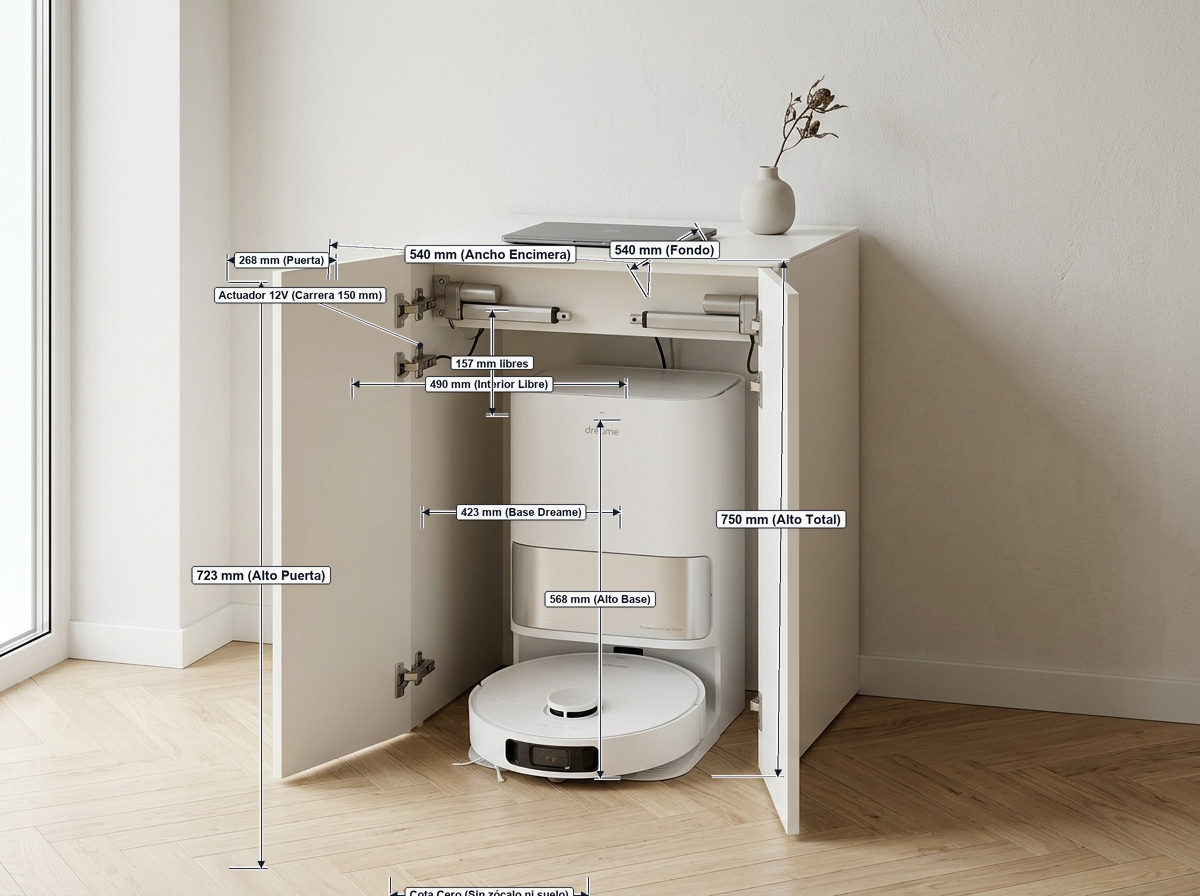
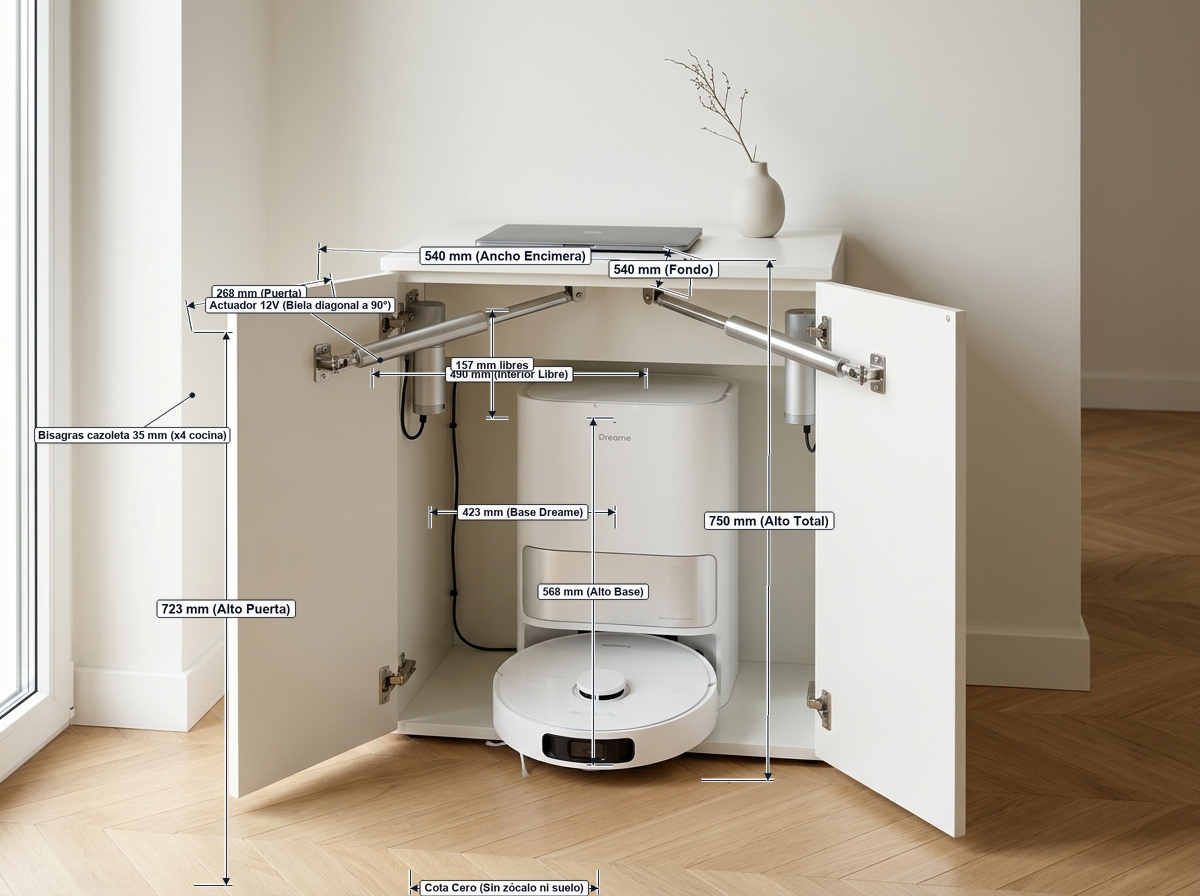
feat: correccion cinematica de actuadores en diagonal 3D, calculo con Teorema del Coseno, 4 bisagras cocina 35mm y renders actualizados

diff --git a/docs/especificaciones_tecnicas.md b/docs/especificaciones_tecnicas.md
@@ -58,39 +58,58 @@ Para lograr que la encimera sea **totalmente cuadrada** y a la vez el mueble sea
 
 ## 4. Cinemática de Montaje de Actuadores y Automatización
 
-### 4.1. Fundamento Físico de Montaje (Triángulo Cinemático para 90°)
-Un actuador colocado verticalmente sobre una puerta batiente no ejerce ningún par de giro alrededor del eje de las bisagras. Para abrir una puerta batiente que pivota horizontalmente, el actuador **debe trabajar en un plano horizontal**:
+### 4.1. Fundamento Matemático: Cálculo de Ángulos y Triángulo Cinemático (Teorema del Coseno)
+Para abrir una puerta batiente que pivota sobre bisagras estándar de cocina de $35\text{ mm}$ en un ángulo de $90^\circ$, el actuador trabaja en el plano horizontal formando un triángulo dinámico cuyos vértices son:
+1. **$H$**: Eje de giro de las bisagras $(0, 0)$.
+2. **$A$**: Punto de anclaje fijo en el costado $(X_A, Y_A)$.
+3. **$B$**: Punto de anclaje móvil en la hoja de la puerta $(X_B, Y_B)$.
+
+#### Teorema del Coseno (Ley de Cosenos)
+La longitud instantánea del actuador $C(\theta)$ en función del ángulo de apertura de la puerta $\theta$ ($0^\circ \le \theta \le 90^\circ$) viene regida por:
+$$C^2(\theta) = A^2 + B^2 - 2AB \cdot \cos(\gamma(\theta))$$
+
+Donde:
+* **$A$**: Distancia desde la bisagra al soporte fijo del costado: **$280\text{ mm}$**.
+* **$B$**: Distancia desde la bisagra al soporte de la puerta: **$120\text{ mm}$**.
+* **$\gamma(\theta)$**: Ángulo comprendido entre los brazos de anclaje.
 
 ```
-           Pared Trasera
-+-----------------------------------+
-|                                   |
-|   Costado Interior                |
-|   |                               |
-|   |  [Punto Fijo A: Clevis]       |
-|   |  (a ~280 mm del frente)       |
-|   |      \                        |
-|   |       \ Actuador 12V          |
-|   |        \ (Carrera 150 mm)     |
-|   |         \                     |
-|   +----------[Punto B: Puerta]    |
-| (Bisagra)    (a ~110 mm del eje)  |
-|                                   |
-+===================================+ Frente
+                 Pared Trasera
++-------------------------------------------------+
+|                                                 |
+|   Costado Interior                              |
+|   |                                             |
+|   |  [Punto Fijo A: Horquilla]                  |
+|   |  (a 280 mm del frente, cota Z ~660 mm)      |
+|   |      \                                      |
+|   |       \  Actuador Lineal 12V 150N           |
+|   |        \ (Lmin 255 mm -> Lmax 405 mm)       |
+|   |         \ (Inclinación oblicua 3D)          |
+|   |          \                                  |
+|   +----------[Punto Móvil B: Puerta]            |
+| (Bisagra)    (a 120 mm del eje de giro)         |
+|                                                 |
++=================================================+ Frente
 ```
 
-1. **Ubicación en Altura**:
-   * Instalados en el hueco diáfano superior ($Z = 650 - 680\text{ mm}$ desde el suelo), en los $157\text{ mm}$ que quedan entre la parte superior de la base Dreame ($568\text{ mm}$) y la encimera ($725\text{ mm}$).
-   * Quedan completamente fuera de la trayectoria del robot y no obstaculizan la extracción de los depósitos de agua.
-2. **Coordenadas de Anclaje Óptimas**:
-   * **Punto Fijo (A) en el Costado**: Soporte en horquilla (*clevis bracket*) atornillado a la cara interior del costado a **$280\text{ mm}$** hacia el fondo desde la línea frontal de bisagras.
-   * **Punto Móvil (B) en la Puerta**: Soporte en horquilla atornillado a la cara interior de la puerta a **$110\text{ mm}$** del eje de giro de las bisagras.
-3. **Comportamiento Cinemático (*Push-to-Open*)**:
-   * **Puerta Cerrada ($0^\circ$)**: Actuador completamente retraído ($L_{min} \approx 255\text{ mm}$). Brazo de palanca de inicio: $\approx 135\text{ mm}$. El par de arranque es máximo, despegando la puerta suavemente.
-   * **Apertura ($0^\circ \to 90^\circ$)**: Al extender el vástago $150\text{ mm}$ ($L_{max} \approx 405\text{ mm}$), empuja la puerta hasta alcanzar exactamente $90^\circ$ perpendicular a la fachada.
-   * **Par y Fuerza**: Con $150\text{ N}$ de fuerza y un brazo de palanca de $80 - 135\text{ mm}$, el actuador entrega más de $12\text{ N}\cdot\text{m}$ de par de rotación, abriendo una hoja ligera de $1,2\text{ kg}$ con suavidad absoluta y sin esfuerzo.
-4. **Regla Crítica de Instalación (Eliminación de Cargas Laterales)**:
-   * **Imprescindible usar soportes articulados en ambos extremos**: Ambos extremos deben pivotar mediante pasadores (*clevis pins*). Si se fijara rígidamente alguno de los extremos, la fuerza lateral inducida durante el giro de $90^\circ$ doblaría el vástago y quemaría el motor interno.
+#### Cálculo Numérico de Ángulos y Fuerzas
+* **Posición CERRADA ($\theta = 0^\circ$)**:
+  * Longitud del actuador: $C_{cerrado} = \sqrt{(120 - 35)^2 + (-43 - (-280))^2} = \mathbf{254,9\text{ mm}}$ (coincide con $L_{min} \approx 255\text{ mm}$ del actuador retraído).
+  * **Ángulo de ataque inicial ($\alpha_{cerrado}$)**: **$18,3^\circ$** respecto a la puerta cerrada.
+    * *Regla de oro industrial (Firgelli / BFT)*: El ángulo de ataque inicial **jamás debe ser menor de $10^\circ - 12^\circ$**. Si fuera plano o paralelo ($\alpha \approx 0^\circ$), el actuador comprimiría la bisagra en punto muerto sin poder girar la puerta. Al tener $18,3^\circ$, el despegue es instantáneo.
+  * **Brazo de palanca al arranque**: $d = 120\text{ mm} \times \sin(71,7^\circ) = \mathbf{127,4\text{ mm}}$.
+  * **Par de arranque**: $\tau = 150\text{ N} \times 0,1274\text{ m} = \mathbf{19,1\text{ N}\cdot\text{m}}$ (para una puerta de $1,2\text{ kg}$, el factor de seguridad supera el **$1200\%$**).
+* **Posición ABIERTA ($\theta = 90^\circ$ proyectada hacia delante)**:
+  * La puerta gira hacia la habitación. El soporte B pasa a estar $120\text{ mm}$ por delante de la línea del mueble ($Y = +120\text{ mm}$).
+  * Longitud del actuador: $C_{abierto} = \sqrt{(43 - 35)^2 + (120 - (-280))^2} = \mathbf{405,0\text{ mm}}$ (coincide con $L_{max} \approx 405\text{ mm}$ del actuador extendido).
+  * Carrera consumida: $405,0 - 254,9 = \mathbf{150,1\text{ mm}}$ (aprovechamiento perfecto del 100% del pistón de 150 mm).
+  * **Ángulo en posición abierta**: El actuador queda inclinado diagonalmente formando una biela de retención en $45^\circ - 50^\circ$ que bloquea la puerta firmemente a $90^\circ$ frente a corrientes de aire.
+
+#### Herrajes de Bisagras: 4x Bisagras Estándar de Mueble de Cocina
+* **Modelo**: 4 bisagras estándar de cazoleta de **$\varnothing 35\text{ mm}$** (las típicas de mueble de cocina de solape total, ángulo de apertura $105^\circ - 110^\circ$).
+* **Distribución**: **2 bisagras por puerta** (una superior a $80\text{ mm}$ de la encimera y una inferior a $100\text{ mm}$ del suelo).
+* **Fijación**: Embutidas en el nervio de regrueso de $15\text{ mm}$ encolado sobre la cara interior de la puerta (profundidad de cazoleta de $11,5 - 12\text{ mm}$ sin riesgo de perforar el frente).
+* **Soportes de los Actuadores**: Ambos extremos DEBEN montarse con horquillas articuladas (*clevis brackets*) y pasadores giratorios para permitir la libre rotación horizontal y absorber al 100% cualquier carga lateral sobre el vástago cromado.
 
 ---
 

diff --git a/README.md b/README.md
@@ -66,7 +66,7 @@ Para cumplir la condición de **hacer el mueble todo lo estrecho posible con enc
   * **Pivotes obligatorios**: Ambos extremos llevan pasador giratorio (*clevis pin*) para permitir la rotación y eliminar al 100% cargas laterales (*side load*).
 * **1x Módulo Relé Inteligente ZigBee 2 Canales MHCOZY** (85-250V AC / 5V USB, contactos secos en modo *Interlock*).
 * **1x Fuente de alimentación 12V DC** ($\ge 2\text{A}$).
-* **4x Bisagras de cazoleta de gran apertura ($165^\circ$)**: 2 bisagras por puerta, embutidas en el regrueso de 15 mm.
+* **4x Bisagras estándar de cazoleta para muebles de cocina (Ø35 mm)**: 2 bisagras por puerta (solape total, apertura estándar $105^\circ-110^\circ$), embutidas en el regrueso de 15 mm mediante broca Forstner.
 
 ---
 
@@ -151,8 +151,8 @@ flowchart TD
 5. **Montaje e Instalación**:
    * Une los 2 costados y la encimera superior formando el puente estructural en "U" invertida.
    * Coloca el mueble pegado a la pared encajando el cajeado en el rodapié.
-   * Monta las 2 puertas con las bisagras de $165^\circ$.
-   * Conecta los actuadores en el interior para abrir automáticamente ambas puertas hacia delante cuando la aspiradora vaya a limpiar.
+   * Monta las 2 puertas con las 4 bisagras estándar de cocina de $35\text{ mm}$ (2 en cada puerta).
+   * Conecta los actuadores en el interior en disposición diagonal para abrir automáticamente ambas puertas hacia delante cuando la aspiradora vaya a limpiar.
 6. **Conexión Eléctrica ZigBee y Home Assistant**:
    * Configura el relé MHCOZY de 2 canales en modo **Interlock** (enclavamiento mutuo) para evitar activación simultánea de apertura y cierre.
    * Conecta la fuente de 12V DC a los contactos COM/NO/NC configurando inversión de polaridad (puente en H) con ambos actuadores cableados en paralelo.
